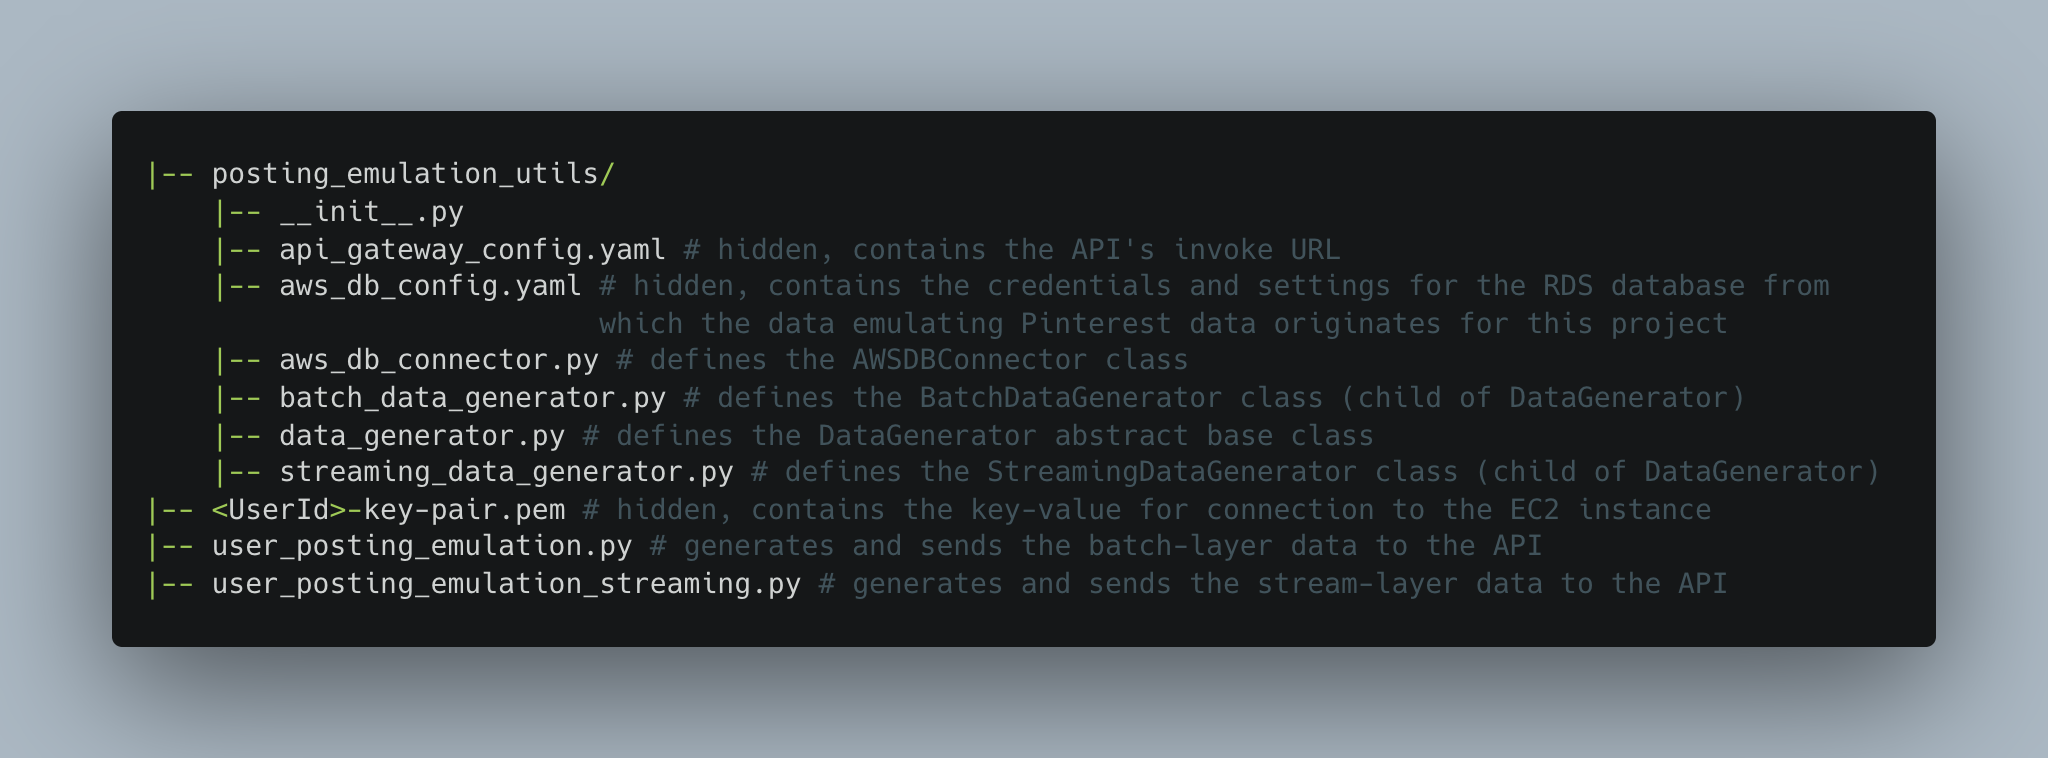
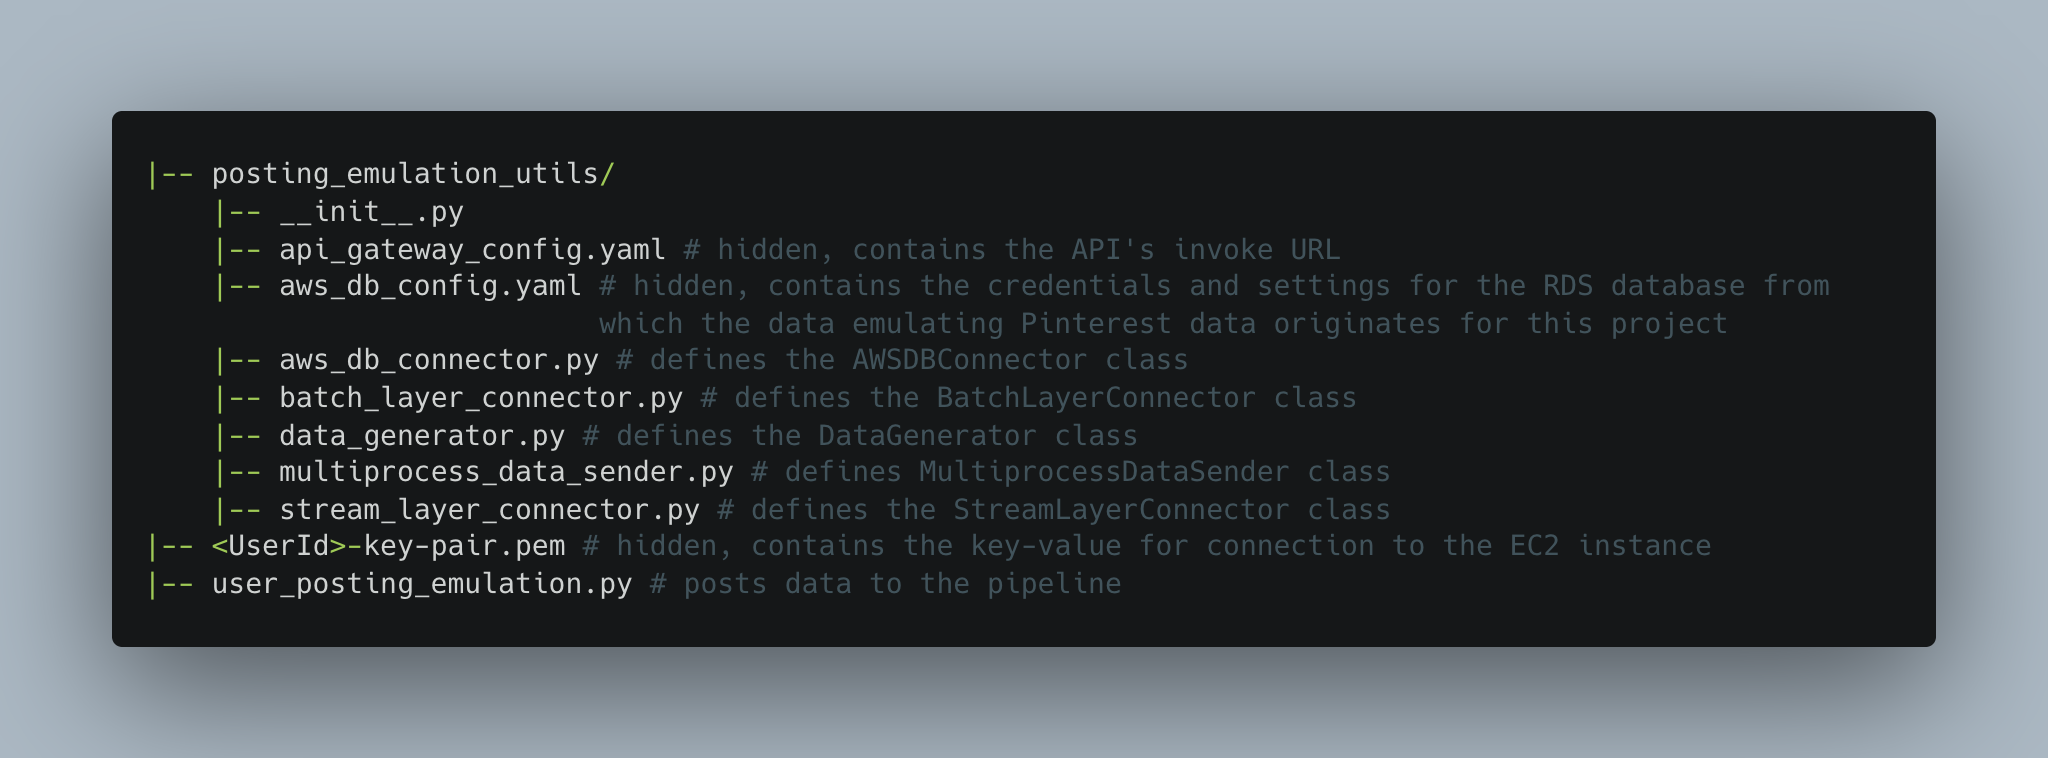
update to reflect multiprocessing refactor

Changed region(s): [[0.0938, 0.6069, 0.8438, 0.7889], [0.1875, 0.5158, 0.9062, 0.6372]]

diff --git a/README.md b/README.md
@@ -30,14 +30,14 @@
 
 ## [Project Overview](#project-overview)
 
-To mimic the creation of real-time user data from Pinterest, I wrote scripts that extract rows of data at random from three tables within an AWS RDS database. These randomly extracted datapoints are sent as JSON objects via an API (which I developed on AWS API Gateway) into their respective processing layers within the pipeline.
+To mimic the creation of real-time user data from Pinterest, I wrote a Python program that extracts rows of data at random from three tables within an AWS RDS database. Using multiprocessing, each randomly extracted datapoint is sent as a JSON object into two distinct processing layers of the pipeline via the two resources of an API I developed on AWS API Gateway.
 
 The pipeline is developed using a Lambda architecture.
 
 For the **Batch Layer**:
 - The data is ingested, in relation to three Kafka topics, via a REST proxy-integrated API connecting the Kafka Client launched on an EC2 instance with an MSK cluster on AWS.
 - I created a sink connector within MSK Connect that directs the incoming data to its target topic folder within an S3 bucket.
-- The data is processed within Databricks using Apache Spark: within Databricks, the data from each topic is read into Spark DataFrames and cleaned before being queried using SQL.
+- The data is processed within Databricks using Apache Spark: the data from each topic is read into Spark DataFrames and cleaned before being queried using SQL.
 - Extracting comprehensive insights from the so-called historical data of the batch layer, the SQL queries generate daily, precomputed batch views written to Parquet tables within Databricks, ready for ingestion to a **Serving Layer**.
 - The job is orchestrated from the Apache Airflow UI on an AWS MWAA environment using a DAG which currently schedules the batch layer pipeline to be run once daily at midnight.
 
@@ -45,6 +45,8 @@ For the **Speed Layer** (or **Stream Layer**):
 - The data is ingested, as three streams, using AWS API Gateway into AWS Kinesis.
 - The data is read in near-real-time from Kinesis into DataFrames using Spark Structured Streaming within Databricks.
 - After cleaning, the data is written into Databricks Delta Tables for long-term storage.
+
+(The next stage of development for this pipeline would be to develop the **Server Layer** of the architecture, where the outputs of the batch and stream layers could be merged to allow for both historical and real-time data analysis.)
 
 The same **data cleaning transformations** are performed on the corresponding datasets across the two layers. These include:
 - Reordering, renaming, combining and/or dropping columns for better data comprehension
@@ -55,16 +57,16 @@ The same **data cleaning transformations** are performed on the corresponding da
 
 ## [Installation](#installation)
 
-This project relies on access to an RDS database on AWS storing data across three tables which resemble the data generated each time a user posts something on Pinterest. The scripts I wrote extract rows of data at random from this database to emulate the creation of real-time user data, each of which sends this data to an API which directs this data into the data pipelines.
+This project relies on access to an RDS database on AWS storing data across three tables which resemble the data generated each time a user posts something on Pinterest. The script I wrote extracts rows of data at random from this database to emulate the creation of real-time user data, and submits this data to the two processing layers of the pipeline via an API.
 
-The data emulation and ingestion into the Cloud requires the following packages installed on the user's local machine or IDE:
+The data emulation and ingestion into the AWS-hosted pipeline requires the following packages installed on the user's local machine or IDE:
 
 - Python 3+
 - PyMySQL (if connecting to a MySQL database, as we are here)
 - SQLAlchemy
 - PyYAML
 
-In terms of AWS cloud infrastucture, the pipeline is made up of the following components:
+In terms of cloud-based infrastucture, the pipeline is made up of the following components:
 - An Apache Kafka MSK cluster
 - An EC2 instance integrated with the MSK cluster (launched before configuring the API)
 - An S3 bucket to store the ingestion of batch layer data
@@ -123,21 +125,19 @@ Back on the AWS console, the user will need to:
 ```
 ./kafka-rest-start /home/ec2-user/confluent-7.2.0/etc/kafka-rest/kafka-rest.properties
 ```
-- In one terminal shell, to start generating and sending data to the Kafka topics, to be fed into the batch layer, run:
+- From a terminal window in the repository, start generating and sending data into the pipeline by running:
 ```
-python -m user_posting_emulation
+python user_posting_emulation.py # or python -m user_posting_emulation ?
 ```
-- To send data to the Kinesis streams, run:
-```
-python -m user_posting_emulation_streaming
-```
-- Monitor the progress of the batch layer pipeline through the Apache Airflow UI on AWS MWAA.
+- I've not yet worked out how to gracefully terminate the process - for now `CTRL C`.
+- Show gifs of data being sent succesfully?
 - Within Databricks, manually trigger the stream-processing layer by running the code blocks sequentially in `stream_pipeline.ipynb`
+- The batch layer pipeline can be monitored through the Apache Airflow UI on AWS MWAA.
 
 ## [File Structure](#file-structure)
 
 The files available in this repository represent:
-- those that make up the data generation/posting emulation from my local machine
+- those that make up the data generation/posting emulation program from my local machine
 - the Databricks Workspace
 - the `dags/` repository in the S3 bucket within the MWAA environment on AWS
 
@@ -204,10 +204,6 @@ To emulate the data generated by Pinterest, this project relies on access to an 
 - Data about the user that interacted with the post (aka the `user` table)
 - Data about the geolocation of the user-post interaction (aka the `geo` table)
 
-
-## [Next Steps](#next-steps)
-
-The next stage of development for this pipeline would be to develop the **Server Layer** of the architecture, where the outputs of the batch and stream layers could be merged to allow for both historical and real-time data analysis. (To provide a faithful implementation of this, I would need to first amend the posting emulation scripts to generate the same datapoints concurrently for input to the pipeline.)
 
 ## [Licence](#licence)
 
